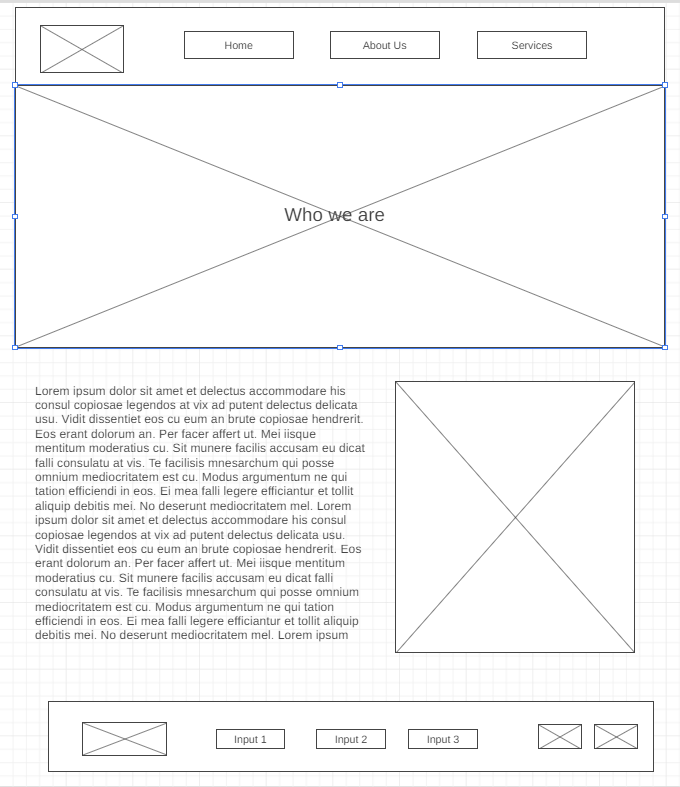
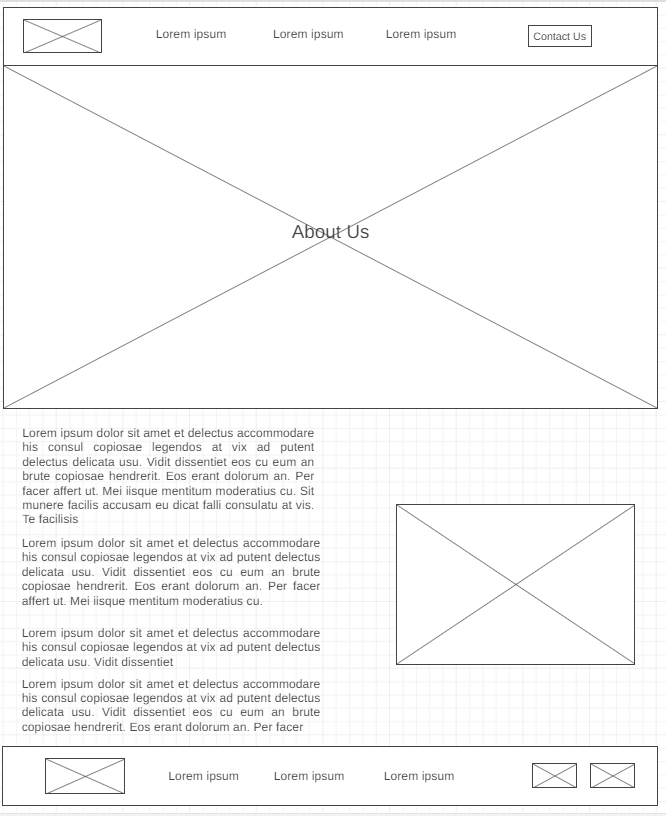
Added to setup

diff --git a/mysite/aboutus.html b/mysite/aboutus.html
@@ -20,7 +20,7 @@
                 <a href="aboutus.html">About Us</a>
                 <a href="services.html">Services</a>
                 <div class="button-box">
-                    <a class="learn-more" href="services.html">contact Us</a>
+                    <a class="learn-more" href="services.html">Contact Us</a>
                 </div>
             </nav>
         </header>
@@ -29,7 +29,7 @@
                 <h1 class="home-tittle-log">About Us</h1>
                 <img id="design-img" src="images/Web design.jpg" alt="Aboutus cover">
             </div>
-        <div class="text-Aboutus">
+        <div class="text-aboutus">
             <p id="p1">
                 We are experts creating effective ads, web optimization, website development, email marketing, content creation,
                 attraction, interaction and conversation generation. We understand your brand, analyze your audience, determine

diff --git a/mysite/styles/styles.css b/mysite/styles/styles.css
@@ -238,9 +238,9 @@ p {
 }
 
 #media-img {
-  min-width: 70%;
-  max-width: 45%;
-  grid-row: 1/3;
+  min-width: 800px;
+  max-width: 1600px;
+  grid-row: 2/4;
   grid-column: 3/4;
   margin-left: 40%;
 }
@@ -251,22 +251,22 @@ p {
 
 #p1 {
   grid-row: 1/2;
-  grid-column: 2/3;
+  grid-column: 1/3;
 }
 
 #p2 {
   grid-row: 2/3;
-  grid-column: 2/3;
+  grid-column: 1/3;
 }
 
 #p3 {
   grid-row: 3/4;
-  grid-column: 2/3;
+  grid-column: 1/3;
 }
 
 #p4 {
   grid-row: 4/5;
-  grid-column: 2/3;
+  grid-column: 1/3;
 }
 
 
